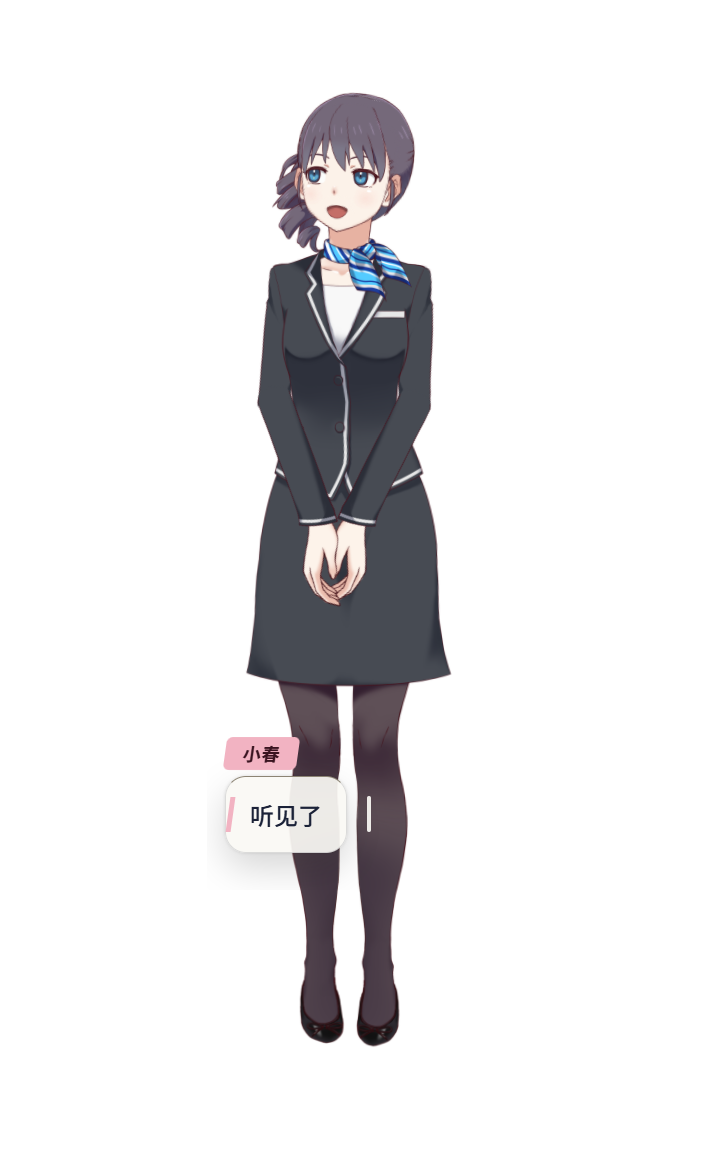
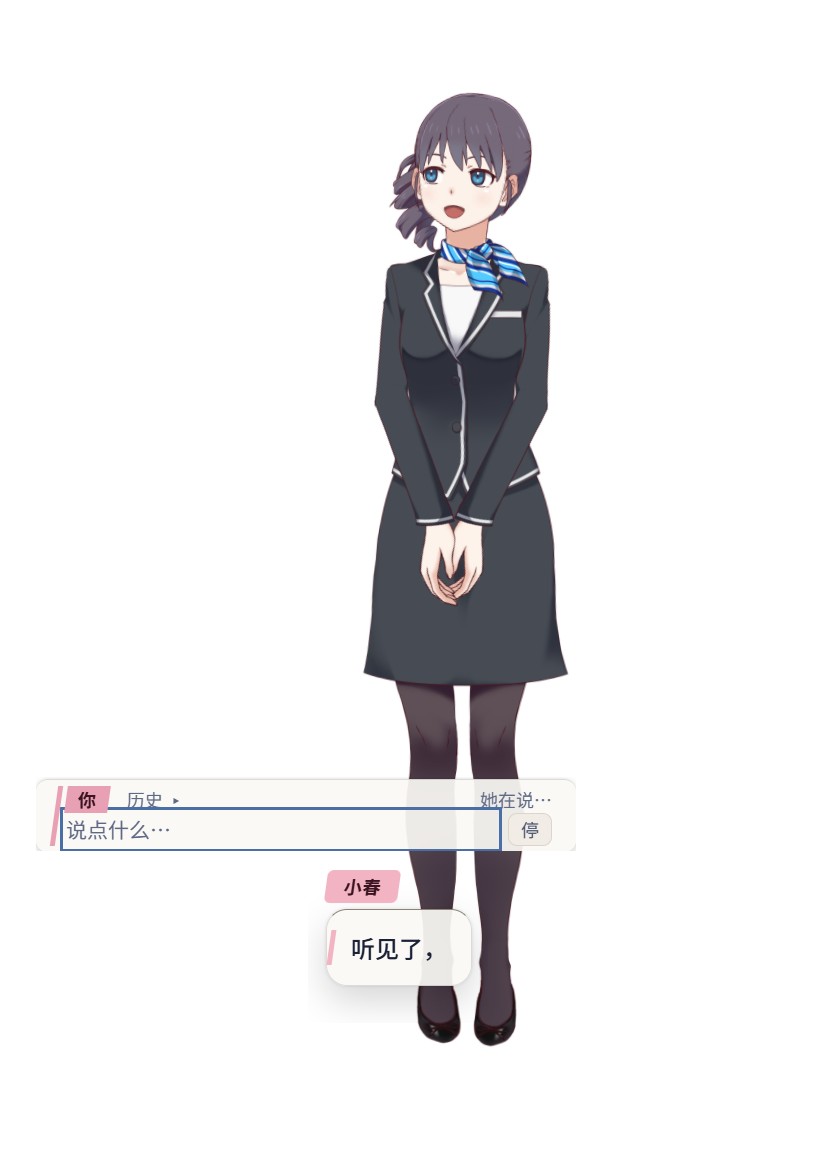
docs(phase2): re-photograph the placement fix, regenerate resources.md, drop the drifting file count
Review round 1, findings 3 and 4, plus the evidence the code fix invalidated.

resources.md (finding 3): regenerated from sample-resources.ps1's own here-string, extracted
with the PowerShell parser and written with the same Set-Content -Encoding utf8 the script
uses, so it is the script's output rather than a hand-typed copy. The heading is now a real em
dash instead of "â€”"; the two measured rows were re-pasted verbatim, so no measurement was
re-rolled. The leading BOM stays - it is what -Encoding utf8 emits on Windows PowerShell 5.1,
and changing that would mean editing the brief's pinned script body. Fix round 1's own
verification run of the Electron lane appended a second idle/speaking pair, kept because it
corroborates the first: idle 1.25 % / 748.2 MB, speaking 2.48 % / 747.0 MB. The memory bar is
still missed by ~3x.

README.md (finding 4): "holds 73 files" is gone - the directory had 72 entries and the number
drifts with every file a later task adds. It now names the 39-file manifest plus the T0-T8
working evidence, which is what 8.7 says the gate actually is.

app-placement.png, app-desktop.png, app-first-message-cold.png, app-inapp-checks.md and
e2e-report.json are re-captured from the fixed build. app-placement.png now shows the composer
on the band's anchor rect with her line in a band directly below it, both readable, her face
clear; app-desktop.png carries the pet, the speaking band AND the open composer at once, which
[…]

Changed region(s): [[0.2991, 0.0625, 0.688, 0.9062], [0.0598, 0.6562, 0.2393, 0.75]]

diff --git a/docs/evidence/phase2/deferred.md b/docs/evidence/phase2/deferred.md
@@ -28,7 +28,7 @@ later be mistaken for an oversight. Sources: `.superpowers/sdd/2026-08-29-phase2
 
 ## Recorded deviations from the addendum
 
-The seven deviations `contracts.md` §8.5 lists are in force: `bubble:place` / `bubble:size` as two
+The nine deviations `contracts.md` §8.5 lists are in force. The first seven: `bubble:place` / `bubble:size` as two
 channels; the added `bubble:hover`; the added `speech:mouth` / `speech:complete` relays; Space does
 not complete the reveal (Enter on an empty composer does); `post_history_instructions` sits in the
 latest user message rather than the system block; `DS_DEV_DEEPSEEK_KEY` — not `DEEPSEEK_API_KEY` —
@@ -38,17 +38,35 @@ C-4 is also recorded: Chromium disables LCD sub-pixel anti-aliasing on transpare
 surfaces, so the band renders with grayscale AA. That is accepted, not a defect — the bar is crisp
 grayscale at a 300 % crop with no colour fringing required.
 
-**An eighth deviation, added by Task 10 on the controller's ruling of 2026-08-29:** `placeBubble`
+**The eighth deviation, added by Task 10 on the controller's ruling of 2026-08-29:** `placeBubble`
 is no longer a head-anchored flip/shift popover. `BUBBLE_GAP` is still exported as C6's number but
-the band geometry does not use it, because the band **overlaps** her body by design. The band is
-anchored at `BAND_ANCHOR_Y = 0.72` of the pet window's height with a hard `BAND_TOP_MAX_FRACTION =
-0.55` floor on its top edge, extends LEFT with her horizontal centre at `BAND_PET_FRACTION = 0.80`
-of its width (her in its right third), and only ever takes the sides `left` / `right`. The chat
-window goes through the same call instead of asking for `'top'`. This is `task-0-direction.md`'s
-FIRST VIEWPORT and the direction-contract comment inside `bubble.html`, which the shipped code was
-contradicting: `desktop-chat-over-pet.png` and `task6-fake-brain-run.png` show the composer and the
-placeholder band across her FACE. `app-placement.png` and `app-first-message-cold.png` are the
-same surfaces after the fix.
+the band geometry does not use it as a gap to *her*, because the band **overlaps** her body by
+design. The band is anchored at `BAND_ANCHOR_Y = 0.72` of the pet window's height with a hard
+`BAND_TOP_MAX_FRACTION = 0.55` floor on its top edge, extends LEFT with her horizontal centre at
+`BAND_PET_FRACTION = 0.80` of its width (her in its right third), and only ever takes the sides
+`left` / `right`. The chat window goes through the same call instead of asking for `'top'`. This is
+`task-0-direction.md`'s FIRST VIEWPORT and the direction-contract comment inside `bubble.html`,
+which the shipped code was contradicting: `desktop-chat-over-pet.png` and `task6-fake-brain-run.png`
+show the composer and the placeholder band across her FACE. `app-placement.png` and
+`app-first-message-cold.png` are the same surfaces after the fix.
+
+**This ledger is not where that change lives.** Review round 1 was right that a deferral note is no
+substitute for the contract, so `contracts.md` §5.3, §5.3.1, §6.1, §8.5 (deviations 8 and 9), §8.6
+row 16 and §8.7's `placeBubble` row were amended to the shipped geometry in the same change-set, and
+`bubble-place.test.ts` test **G2** pins the five re-measured rects. A Phase 3 task reading the
+contract now gets the code that exists.
+
+**A ninth deviation, added in fix round 1:** `placeBubble` takes a fifth argument, `avoid`. The
+composer takes the band's anchor rect, but §6.2 rule 4 holds it open for the whole reply and rule 6
+needs it open to restore the text on an error — so both always-on-top windows are on screen at once
+and were rendering two different texts into the same rectangle (visible in `app-placement.png`
+behind and around the composer box, and worked around in `phase2.spec.ts`, which used to send
+`chat:close` before capturing `app-desktop.png`). The composer keeps the rect; the **band** steps
+below it, or above it when the work area has no room below. `brain-service.ts` supplies `avoid` from
+the chat window's bounds on every band placement and re-places the band on the chat window's
+`show` / `hide` and on `chat:resize`. Hiding the band while the composer is up was the other
+candidate and was rejected: it would make her whole reply invisible for as long as the composer is
+open.
 
 ## What the Phase 2 numbers actually cover
 
@@ -108,14 +126,16 @@ same surfaces after the fix.
 | idle CPU, whole Electron tree | 1.27 % | ≤ 4 % | **within bar** |
 | speaking CPU | 3.36 % | ≤ 4 % | **within bar** (30 Hz pet + reveal timer + mouth sync) |
 | cold-profile first message | 391–476 ms over four launches | ≤ 3 s (controller ruling) | **within bar**, on a virgin `--user-data-dir` every time. aa0e9df's replay fix holds. |
-| composer / band top edge vs the pet | 68.6 % of the pet window's height | ≥ 55 % (controller ruling) | **within bar** in the running app, both themes; 16 unit tests pin it across the whole band size range. |
+| composer / band top edge vs the pet | 68.6 % of the pet window's height | ≥ 55 % (controller ruling) | **within bar** in the running app, both themes; 22 unit tests pin it across the whole band size range. |
+| band rect vs composer rect, both visible | disjoint | no shared pixel | **within bar.** Fixed in review round 1: the band dodges the visible composer (`placeBubble`'s `avoid`). Pinned by four unit tests over three work areas × four pet positions × three composer heights × the whole band size range, and asserted in the Electron lane while both windows are up. |
 | A9/A19 and the other 14 judged axes | NOT MEASURED | — | Insufficient balance. Neither passed nor failed. |
 | R4 first-sentence p50 | NOT MEASURED | ≤ 1200 ms | Insufficient balance. |
 | X1 prompt-cache hit | NOT MEASURED | ≥ 70 % | Insufficient balance. |
 | addendum §0 paint latency | NOT MEASURED | ≤ 100 ms | Insufficient balance. |
-| display-removal reconciliation | UNTESTABLE | — | One monitor on this machine. The handler path was exercised synthetically (`screen.emit('display-removed')` and `('display-metrics-changed')`) and the pet and band both stayed inside the work area, but a physical unplug and a real scale change were not produced. |
+| display-removal reconciliation | UNTESTABLE | — | One monitor on this machine. The handler path was exercised synthetically: the pet window is first moved **outside** the work area, then `screen.emit('display-removed')` and `('display-metrics-changed')` are fired, and the assertion is that `reconcileDisplays` pulled her back to a grabbable position and the band followed. That assertion fails if the handler is removed (it did not, before fix round 1 moved the windows out first). A physical unplug and a real scale change were still not produced. |
 | the chat window with the history pane open (360 × 468 DIP) | top edge at 36 % of the pet | ≥ 55 % | **Deliberate exception.** 468 DIP does not fit between 55 % of the pet and the work-area bottom, so C14 (never cross the work area) wins and the window is placed against it. Still far below her face — the defect this replaced put the top edge at ~5 %. Pinned by its own unit test. |
 | `eval-report-final.json`, `session-20-turns.json`, `app-20-turns.json` | not produced | — | A machine-readable report is either a measurement or a lie. The `.md` siblings exist and say NOT MEASURED. |
 | `app-desktop.png`, `app-history-interrupted.png` | produced by the **offline** lane | — | The brief has the real-API test produce both. With the API unreachable they were produced on `DS_FAKE_BRAIN=1` instead — real windows, real compositor, real interruption path, scripted words. The real-API run would overwrite them. |
 | `task-3-card-tokens.txt` | 140 bytes | > 200 bytes (the brief's own completeness floor) | The brief's Step 1 and Step 18 gates reject any evidence file under 200 bytes. That file is six correct lines and is 140 bytes. The gate's floor is wrong for it, not the file; both gates were run as written and this is the one row they flag. |
-| the offline Electron lane | 4 passed | the brief says 3 | A fourth test carries the four in-app checks the controller ruled Task 10 must exercise. `e2e-report.json` records `expected: 4, unexpected: 0, skipped: 0`. |
+| the offline Electron lane | 4 passed | the brief says 3 | A fourth test carries the four in-app checks the controller ruled Task 10 must exercise. `e2e-report.json` records `expected: 4, unexpected: 0, skipped: 1` — the skip is the `20 real turns` test, gated on `DEEPSEEK_API_KEY`. |
+| `phase2.spec.ts`'s `20 real turns` aggregation | fixed but **never executed** | — | Fix round 1 corrected the `t.usage !== null` filter (a `brain:error` entry has no `usage` at all, and `undefined !== null` is true, so one errored turn survived it and then threw a TypeError), carried the prompt id on the recorded turn instead of re-deriving it by position, and added an assertion that no turn errored. The test is still skipped for want of a key/balance, so those three lines have never run. Verified only by `tsc`. |

diff --git a/docs/evidence/phase2/README.md b/docs/evidence/phase2/README.md
@@ -24,13 +24,20 @@ be measured, and the exact commands that will measure it: [`not-measured.md`](no
 | prompt-cache hit, turns 3+ (session) | **NOT MEASURED** | ≥ 70 % (X1) | [`metrics-cache-hit.txt`](metrics-cache-hit.txt) |
 | prompt-cache hit, turns 3–20 (in app) | **NOT MEASURED** | ≥ 70 % (X1) | [`app-20-turns.md`](app-20-turns.md) |
 | tuning iterations | 0 of 3 | ≤ 3 (R8) | [`tuning-log.md`](tuning-log.md) |
-| cold-profile first message, virgin `--user-data-dir` | 391 · 456 · 462 · 476 ms | ≤ 3 s | [`app-first-message-cold.png`](app-first-message-cold.png), `e2e-report.json` |
+| cold-profile first message, virgin `--user-data-dir` | 391 · 456 · 462 · 476 ms (round 1) · 688–721 ms over eight more launches (fix round 1) | ≤ 3 s | [`app-first-message-cold.png`](app-first-message-cold.png), `e2e-report.json` |
 | band / composer top edge vs the pet window | 68.6 % | ≥ 55 % of the pet's height | [`app-placement.png`](app-placement.png), `bubble-place.test.ts` |
+| band rect vs composer rect, both visible | no shared pixel, light and dark and mid-reply | disjoint | [`app-placement.png`](app-placement.png), [`app-desktop.png`](app-desktop.png), [`app-inapp-checks.md`](app-inapp-checks.md) |
 | idle CPU / working set (whole Electron tree, 7 processes) | 1.27 % / **750.3 MB** | ≤ 4 % / ≤ 250 MB | [`resources.md`](resources.md) — CPU passes, **memory misses by 3×** |
 | speaking CPU / working set | 3.36 % / 742.2 MB | ≤ 4 % / ≤ 250 MB | [`resources.md`](resources.md) |
 | card budget | 673 / 700 tokens | ≤ 700 (A21) | [`task-3-card-tokens.txt`](task-3-card-tokens.txt) |
-| in-app checks Task 6 could not run | 5 PASS, 1 UNTESTABLE | — | [`app-inapp-checks.md`](app-inapp-checks.md) |
-| offline Electron end-to-end lane | 4 passed, 0 unexpected | — | [`e2e-report.json`](e2e-report.json) |
+| in-app checks Task 6 could not run | 6 PASS, 1 UNTESTABLE | — | [`app-inapp-checks.md`](app-inapp-checks.md) |
+| offline Electron end-to-end lane | 4 passed, 0 unexpected, 1 skipped (the gated real-API test) | — | [`e2e-report.json`](e2e-report.json) |
+
+`resources.md` carries **four** rows, not two: fix round 1 re-ran the Electron lane to re-photograph
+the placement fix, and every run appends its own `idle` / `speaking` sample. The second pair
+corroborates the first rather than replacing it — idle **1.25 %** / 748.2 MB, speaking **2.48 %** /
+747.0 MB — and the headline rows above are still the original pair. Neither number was re-rolled to
+get a friendlier one: the memory bar is missed by ~3× in both.
 
 ## The light/dark sheet
 
@@ -60,9 +67,11 @@ VIEWPORT and the direction-contract comment inside `bubble.html` are what the fi
 
 ## Every file in the §1.8 manifest, plus Task 10's own
 
-`docs/evidence/phase2/` holds 73 files. The rows below are the 39-file manifest
-(19 inherited + 20 produced here, with 3 of the 20 replaced by NOT MEASURED placeholders and 3
-extra Task 10 captures added), followed by the per-task working evidence T1–T8 left behind.
+`docs/evidence/phase2/` holds the §1.8 **39-file manifest** (19 inherited + 20 produced here, with
+3 of the 20 replaced by NOT MEASURED placeholders and 3 extra Task 10 captures added) **plus the
+per-task working evidence T0–T8 left behind**. No hard total is given: it drifts with every file a
+later task adds, and §8.7 is explicit that the gate is a manifest gate, not a count. Both groups are
+listed below — the manifest first, the working evidence after it.
 
 | File | Owner | What it proves |
 |---|---|---|
@@ -88,12 +97,12 @@ extra Task 10 captures added), followed by the per-task working evidence T1–T8
 | `app-chat-light.png`, `app-chat-dark.png` | T10 | the real composer with text, both themes |
 | `app-key-light.png`, `app-key-dark.png` | T10 | the real key window, masked field + disclosure line, both themes |
 | `app-first-message-cold.png` | T10 | the cold-profile first message on the desktop: virgin user-data dir, band up in 391–476 ms, over her lower third |
-| `app-placement.png` | T10 | the composer on the band's rect over her lower third — the controller's placement ruling, in the running app |
-| `app-desktop.png` | T10 | pet + **speaking** band composited on the desktop, mouth open, DPI-aware capture (offline echo brain) |
+| `app-placement.png` | T10 | the composer on the band's anchor rect over her lower third — the controller's placement ruling — with the band stepped clear below it, in the running app |
+| `app-desktop.png` | T10 | pet + **speaking** band + the open composer composited on the desktop, mouth open, DPI-aware capture (offline echo brain). Before fix round 1 the composer had to be closed for this shot, because it covered the band |
 | `app-history-interrupted.png` | T10 | the `[中断]` row in the running app after `Escape` mid-reply, keeping only the sentence whose `playback:sentenceDone` arrived (R2) |
-| `app-inapp-checks.md` | T10 | the six in-app checks: hover pin, drag follow, display reconciliation (UNTESTABLE, 1 monitor), pointerleave re-arm, Escape mid-reply, abandoned IME |
+| `app-inapp-checks.md` | T10 | the seven in-app checks: hover pin, drag follow, display reconciliation (UNTESTABLE, 1 monitor), pointerleave re-arm, band/composer disjointness, Escape mid-reply, abandoned IME |
 | `resources.md` | T10 | idle and speaking CPU / working set for the whole Electron process tree |
-| `e2e-report.json` | T10 | the Playwright run record for the Electron lane: 4 expected, 0 unexpected, 0 skipped |
+| `e2e-report.json` | T10 | the Playwright run record for the Electron lane: 4 expected, 0 unexpected, 1 skipped — the skip is the `20 real turns` test, gated on `DEEPSEEK_API_KEY` |
 | `deferred.md` | T10 | the deferral ledger, the honesty clauses and the shortfall table |
 | `README.md` | T10 | this sheet |
 

diff --git a/docs/evidence/phase2/app-inapp-checks.md b/docs/evidence/phase2/app-inapp-checks.md
@@ -7,7 +7,8 @@ user-data directory with `DS_FAKE_BRAIN=1`, so none of it depends on a DeepSeek 
 |---|---|---|
 | hover holds the window interactive | PASS | setIgnoreMouseEvents(false) observed on the bubble window; still visible true after 5 s of hover (hide was armed at 3.4 s) |
 | the bubble follows a drag of the pet | PASS | pet moved (-180, -60); band moved (-180, -60) |
-| display-removal reconciliation | UNTESTABLE | only 1 display on this machine, so a real unplug cannot be produced. The handler path was exercised synthetically (screen.emit('display-removed') + ('display-metrics-changed')): pet inside work area true, band inside work area true, band top at 64.7 % of the pet. |
+| display-removal reconciliation | UNTESTABLE | only 1 display on this machine, so a real unplug and a real scale change cannot be produced. The handler path was exercised synthetically: pet stranded at x 3160 (outside the work area: true); after display-removed + display-metrics-changed she is back at x 2512, grabbable true, and the band is inside the work area true. The assertion is not vacuous — it fails if reconcileDisplays is removed — but it is not the physical event either. |
 | pointerleave re-arms the hide | PASS | the first message had armed a hide; while the pointer was on the band it never fired, and the band hid within 20 s of pointerleave: true |
+| band and composer never share a pixel | PASS | mid-reply, both windows visible: band {"x":2047,"y":1144,"width":125,"height":102,"scaleFactor":1.5}, composer {"x":1858,"y":1082,"width":360,"height":50,"scaleFactor":1.5}, pet.y 588. The band steps below the composer (contracts 5.3 step 6 / 6.1), so app-desktop.png carries both. |
 | Escape mid-reply: chat stays open, history marks [中断] | PASS | 6.2 rule 4 (Escape while brainState !== idle cancels and does not close) and R2 (the history row keeps only the sentences whose playback:sentenceDone arrived, and carries the [中断] chip) |
 | an abandoned IME composition is dismissed cleanly | PASS | Escape swallowed while composing (window survived: true); nothing committed to the composer (value ""); after the abandoned composition Escape closes and light-dismiss works again (true) |

diff --git a/docs/evidence/phase2/resources.md b/docs/evidence/phase2/resources.md
@@ -1,4 +1,4 @@
-# Phase 2 â€” resource samples (whole Electron process tree)
+# Phase 2 — resource samples (whole Electron process tree)
 
 Bar (addendum section 0): <= 4 % CPU and <= 250 MB at 30 Hz idle; <= 0.5 % CPU while hidden.
 CPU is the summed TotalProcessorTime delta / window / logical cores, so 100 % means one full core.
@@ -7,3 +7,5 @@ CPU is the summed TotalProcessorTime delta / window / logical cores, so 100 % me
 |---|---|---|---|---|
 | idle | 7 | 10 | 1.27 | 750.3 |
 | speaking | 7 | 5 | 3.36 | 742.2 |
+| idle | 7 | 10 | 1.25 | 748.2 |
+| speaking | 7 | 5 | 2.48 | 747 |
